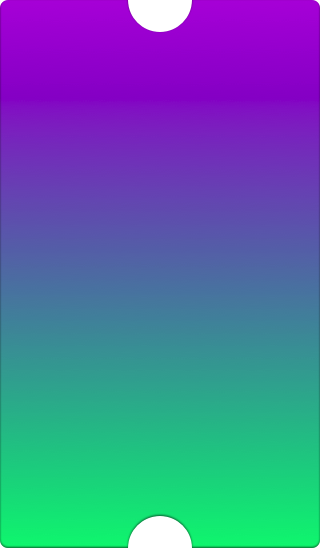
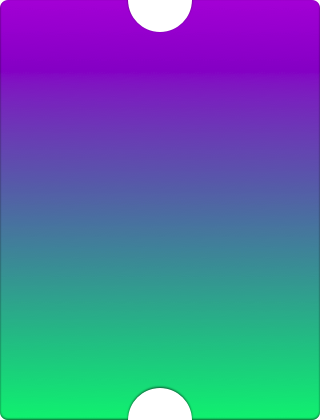
Made cells smaller.

diff --git a/PassbookLayout/PassbookLayout.m b/PassbookLayout/PassbookLayout.m
@@ -41,10 +41,13 @@
     PassbookLayoutMetrics m;
     PassbookLayoutEffects e;
     
-    m.normal.size       = CGSizeMake(320.0, 320.0);
+    m.normal.size       = CGSizeMake(320.0, 420.0);
     m.normal.overlap    = 0.0;
     m.collapsed.size    = CGSizeMake(320.0, 96.0);
     m.collapsed.overlap = 32.0;
+    
+    m.bottomStackedHeight = 8.0;
+    m.bottomStackedTotalHeight = 64.0;
     
     e.inheritance       = 0.10;
     e.sticksTop         = YES;
@@ -72,14 +75,30 @@
 {
     UICollectionViewLayoutAttributes *attributes = [UICollectionViewLayoutAttributes layoutAttributesForCellWithIndexPath:indexPath];
     
-    attributes.frame  = frameForPassAtIndex(indexPath, self.collectionView.bounds, _metrics, _effects);
-    attributes.zIndex = zIndexForPassAtIndex(indexPath);
+    NSArray *selectedIndexPaths = [self.collectionView indexPathsForSelectedItems];
     
+    if (selectedIndexPaths.count && [(NSIndexPath*)selectedIndexPaths[0] isEqual:indexPath])
+    {
+        attributes.frame  = frameForSelectedPass(self.collectionView.bounds, _metrics);
+    }
+    else if (selectedIndexPaths.count)
+    {
+        attributes.frame  = frameForUnselectedPass(indexPath, self.collectionView.bounds, _metrics);
+    }
+    else
+    {
+        BOOL isLast = (indexPath.item == [self.collectionView numberOfItemsInSection:indexPath.section]);
+        attributes.frame  = frameForPassAtIndex(indexPath, isLast, self.collectionView.bounds, _metrics, _effects);
+    }
+    
+    attributes.zIndex = zIndexForPassAtIndex(indexPath);
+        
     return attributes;
 }
 
 - (NSArray *)layoutAttributesForElementsInRect:(CGRect)rect
 {
+    // WIP : Returns all cells (inneficient) in the meantime. Just for testing
     NSMutableArray *array = [[NSMutableArray alloc] initWithCapacity:[self.collectionView numberOfItemsInSection:0]];
     
     for (NSInteger i=0; i < [self.collectionView numberOfItemsInSection:0]; i++)
@@ -92,6 +111,7 @@
 
 - (CGSize)collectionViewContentSize
 {
+    // WIP : Fixed value in the meantime
     return CGSizeMake(self.collectionView.bounds.size.width, 1000.0);
 }
 
@@ -104,7 +124,8 @@
 
 #pragma mark Cell positioning
 
-CGRect frameForPassAtIndex(NSIndexPath *indexPath, CGRect b, PassbookLayoutMetrics m, PassbookLayoutEffects e)
+/// Normal collapsed cell, with bouncy animations on top
+CGRect frameForPassAtIndex(NSIndexPath *indexPath, BOOL isLastCell, CGRect b, PassbookLayoutMetrics m, PassbookLayoutEffects e)
 {
     CGRect f;
     
@@ -122,8 +143,6 @@ CGRect frameForPassAtIndex(NSIndexPath *indexPath, CGRect b, PassbookLayoutMetri
             // Keep stuck at top
             f.origin.y      = b.origin.y * e.inheritance/2.0;
             f.size.height   = m.collapsed.size.height - b.origin.y * (1 + e.inheritance);
-            
-            NSLog(@"%.2f", f.size.height);
         }
         else
         {
@@ -140,6 +159,36 @@ CGRect frameForPassAtIndex(NSIndexPath *indexPath, CGRect b, PassbookLayoutMetri
             f.origin.y = b.origin.y;
         }
     }
+    
+    // Edge case, if it's the last cell, display in full height, to avoid any issues.
+    if (isLastCell)
+    {
+        f.size = m.normal.size;
+    }
+    
+    return f;
+}
+
+/// Centered cell
+CGRect frameForSelectedPass(CGRect b, PassbookLayoutMetrics m)
+{
+    CGRect f;
+    
+    f.size      = m.normal.size;
+    f.origin.x  =              (b.size.width  - f.size.width ) / 2.0;
+    f.origin.y  = b.origin.y + (b.size.height - f.size.height) / 2.0;
+    
+    return f;
+}
+
+/// Bottom-stack cell
+CGRect frameForUnselectedPass(NSIndexPath *indexPath, CGRect b, PassbookLayoutMetrics m)
+{
+    CGRect f;
+    
+    f.size        = m.collapsed.size;
+    f.origin.x    = (b.size.width - m.normal.size.width) / 2.0;
+    f.origin.y    = b.origin.y + b.size.height - m.bottomStackedTotalHeight + m.bottomStackedHeight*indexPath.item;
     
     return f;
 }

diff --git a/PassbookLayout/PassbookLayout.h b/PassbookLayout/PassbookLayout.h
@@ -24,6 +24,12 @@ typedef struct
     
     /// Collapsed is when
     struct PassMetrics collapsed;
+    
+    /// The size of the bottom stack when a pass is selected and all others are stacked at bottom
+    CGFloat bottomStackedTotalHeight;
+    
+    /// The visible size of each cell in the bottom stack
+    CGFloat bottomStackedHeight;
 }PassbookLayoutMetrics;
 
 typedef struct

diff --git a/Samples/Passbooks/Passbooks/ViewController.m b/Samples/Passbooks/Passbooks/ViewController.m
@@ -47,6 +47,11 @@
     return cell;
 }
 
+- (void)collectionView:(UICollectionView *)collectionView didSelectItemAtIndexPath:(NSIndexPath *)indexPath
+{
+    [self.collectionView performBatchUpdates:nil completion:nil];
+}
+
 #pragma mark - UIScrollView delegate
 
 //- (void)scrollViewDidScroll:(UIScrollView *)scrollView
